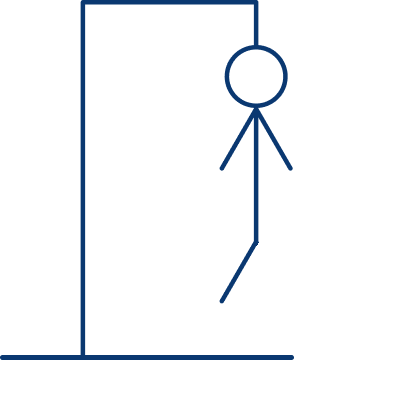
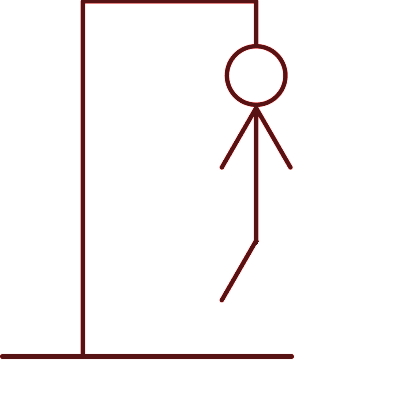
Mejoras ahorcado

Changed region(s): [[0.0, 0.0, 0.7136, 0.875]]

diff --git a/style.css b/style.css
@@ -1,6 +1,13 @@
 *{
     margin: 0;
 }
+body{
+    background-image: linear-gradient(rgba(0, 0, 0, 0.5), rgba(0, 0, 0, 0.5)), url("./img/ahorcadoBG.png");
+    background-position: center;
+    background-repeat: no-repeat;
+    background-size: cover;
+}
+
 .span-alert-win{
     text-shadow: 3px 3px 3px rgb(0, 255, 55);
     color: green;
@@ -17,6 +24,7 @@ header{
     align-items: center;
     gap: 2em;
     padding: 2em;
+    color: white;
 }
 
 .buttons {
@@ -33,14 +41,14 @@ header{
     height: 114px;
     width: 317px;
     border-radius: 24px;
-    background-color: #0A3871;
+    background-color: #5a0306;
     box-shadow: 2px 2px 12px 2px black;
     color: white;
     margin: 2em;
 }
 .buttons #play:hover{
-    background-color: aliceblue;
-    color: #0A3871;
+    background-color: rgb(41, 37, 37);
+    color: red;
     transition: all 1s;
 }
 
@@ -51,7 +59,7 @@ header{
 }
 .buttons .new:hover{
     color: white;
-    background-color: #0A3871;
+    background-color: #5a0306;
     transition: all 1s;
 }
 
@@ -60,10 +68,11 @@ header{
     display: inline-block;
     vertical-align: bottom;
     font-size: 2em;
-    border-bottom: 2px solid black;
+    border-bottom: 2px solid white;
     min-width: 40px;
     margin-right: 6px;
     text-align: center;
+    color: white;
 }
 
 #secretWord{
@@ -78,11 +87,7 @@ header{
 #newWords{
     height: 80vh;
     width: 100vw;
-    /* display: flex;
-    flex-direction: column;
-    justify-content: center;
-    align-items: center; */
-    color: #0A3871;
+    color: white;
 }
 #newWords .container {
     width: 100%;
@@ -100,7 +105,8 @@ header{
     font-size: 24px;
     outline: none;
     resize: none;
-    color: #0A3871;
+    color: white;
+    background-color: #5a030600;
 }
 
 #newWords p {
@@ -120,28 +126,28 @@ header{
     
 }
 #newWords .btn-new{
-    background-color: #0A3871;
+    background-color: #5a0306;
     color: aliceblue;
 }
 
 #newWords .btn-delete{
-    background-color: aliceblue;
-    color: #0A3871;
-    border-color: #0A3871;
+    background-color: white;
+    color: #5a0306;
+    border-color: #5a0306;
 }
 
 #newWords .back{
-    background-color: #0A3871;
+    background-color: #5a0306;
     color: aliceblue;
 }
 
 #newWords .btn-new:hover, #newWords .back:hover{
     background-color: aliceblue;
-    color: #0A3871;
+    color: #5a0306;
     transition: all 1s;
 }
 #newWords .btn-delete:hover{
-    background-color: #0A3871;
+    background-color: #5a0306;
     color: aliceblue;
     transition: all 1s;
 }
@@ -160,6 +166,9 @@ main .wordsLetters{
     flex-direction: column;
     margin-bottom: 1em;
 }
+main .wordsLetters #fails{
+    color: red;
+}
 
 #mainContent #keyBoard{
     width: 550px;
@@ -171,16 +180,16 @@ main .wordsLetters{
 #mainContent #keyBoard button{
     padding: 1.5em;
     background-color: aliceblue;
-    color: #0A3871;
+    color: #5a0306;
     border: none;
     border-radius: 12px;
-    box-shadow: 1px 1px 4px 1px #0A3871;
+    box-shadow: 1px 1px 4px 1px #5a0306;
 
 }
 
 
 #mainContent #keyBoard button:hover{
-    background-color: #0A3871;
+    background-color: #5a0306;
     color: aliceblue;
     box-shadow: black;
     transition: all 1s;
@@ -196,19 +205,19 @@ main .wordsLetters{
     border-radius: 24px;
     margin-top: 1em;
     background-color: aliceblue;
-    color: #0A3871;
+    color: #5a0306;
     border: none;
-    box-shadow: 1px 1px 4px 1px #0A3871;
+    box-shadow: 1px 1px 4px 1px #5a0306;
 }
 #mainContent div .newGame {
-    background-color: #0A3871;
+    background-color: #5a0306;
     color: aliceblue;
-    box-shadow: 1px 1px 4px 1px #0A3871;
+    box-shadow: 1px 1px 4px 1px #5a0306;
 }
 #mainContent div .newGame:hover{
-    background-color: aliceblue;
-    color: #0A3871;
-    border: solid 1px #0A3871;
+    background-color: white;
+    color: #5a0306;
+    border: solid 1px #5a0306;
     transition: all 1s;
 }
 
@@ -220,7 +229,7 @@ main .wordsLetters{
 }
 
 #mainContent div .desist:hover{
-    background-color: #0A3871;
+    background-color: #5a0306;
     color: aliceblue;
     transition: all 1s;
 }
@@ -329,7 +338,7 @@ main .wordsLetters{
     }
 
 }
-@media all and (max-width: 430px){
+@media all and (max-width: 375px){
     header{
         padding: 1em;
     }

diff --git a/index.html b/index.html
@@ -6,6 +6,7 @@
     <meta name="viewport" content="width=device-width, initial-scale=1.0">
     <title>Juego del ahorcado</title>
     <link rel="stylesheet" href="style.css">
+    <link rel="shortcut icon" href="./img/logo.png" type="image/x-icon">
     
 </head>
 <body>
